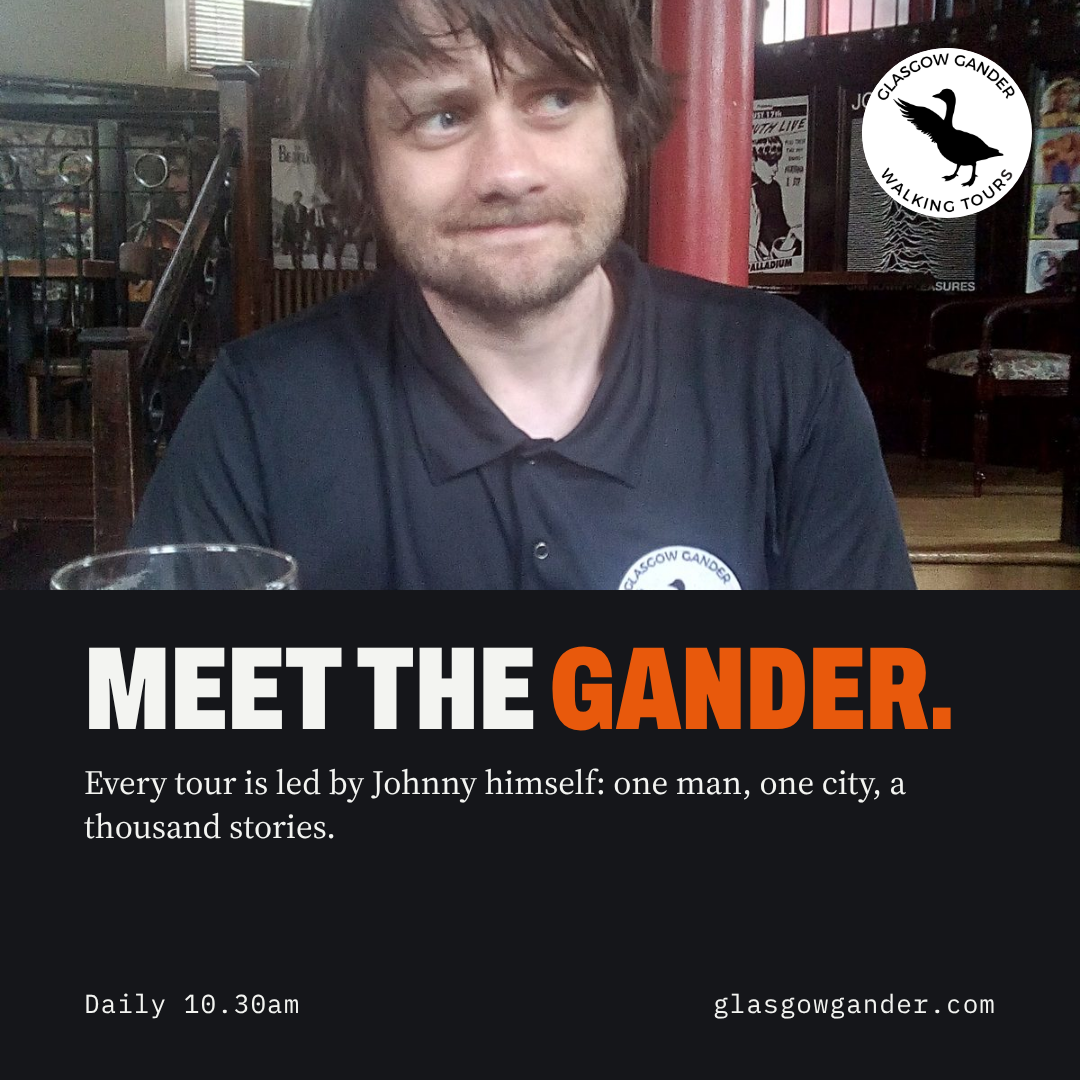
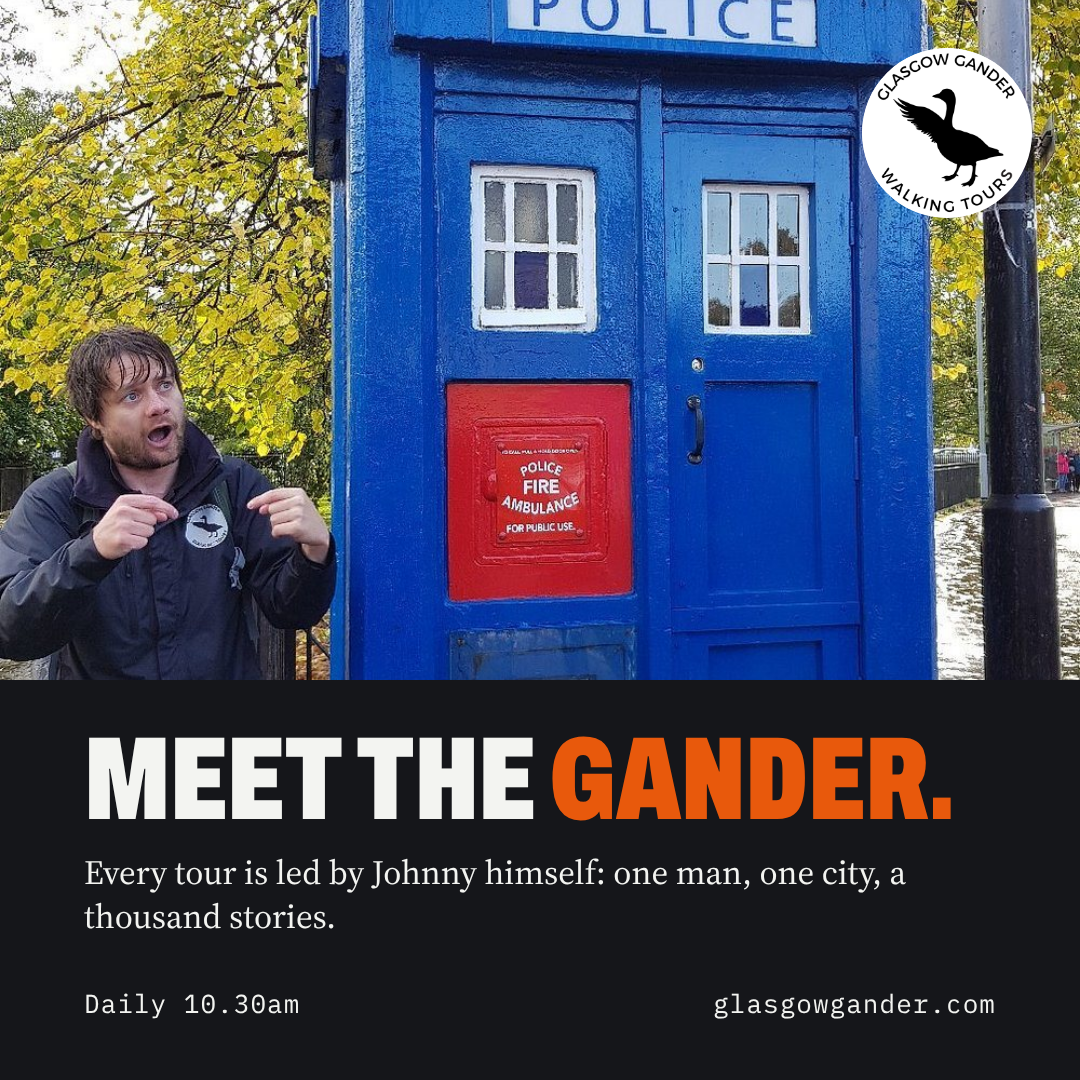
Use tour photos on homepage and Meet the Gander post
Police box photo of Johnny replaces the pub photo; George Square group
and indoor stage photos form a strip above the route. Photos re-saved
without metadata.

Claude-Session: https://claude.ai/code/session_01NVZjhXLwDRfLrGN4dTyPTs

diff --git a/index.html b/index.html
@@ -10,7 +10,7 @@
 <meta property="og:description" content="Three hours, 1.5 miles and the whole story of Glasgow. Daily at 10.30am from Royal Exchange Square. £15, kids go free.">
 <meta property="og:type" content="website">
 <meta property="og:url" content="https://www.glasgowgander.com/">
-<meta property="og:image" content="assets/city-chambers.jpg">
+<meta property="og:image" content="assets/tour-george-square.jpg">
 <link rel="icon" type="image/png" href="assets/logo-192.png">
 <link rel="preconnect" href="https://fonts.googleapis.com">
 <link rel="preconnect" href="https://fonts.gstatic.com" crossorigin>
@@ -175,6 +175,12 @@ section.block { padding-block: clamp(3rem, 7vw, 5.5rem); }
 .johnny-photo { margin: 0; display: grid; gap: 0.5rem; }
 .johnny-photo img { width: 100%; height: auto; max-width: 100%; aspect-ratio: 1 / 1; object-fit: cover; border-radius: 20px; display: block; }
 .johnny-photo figcaption { font-family: var(--font-mono); font-size: 0.8rem; color: var(--muted); }
+.photo-strip { padding-top: clamp(2rem, 5vw, 3.5rem); }
+.strip-grid { display: grid; grid-template-columns: minmax(0, 1.67fr) minmax(0, 1.33fr); gap: 1rem; }
+.strip-grid figure { margin: 0; display: grid; gap: 0.5rem; align-content: start; }
+.strip-grid img { display: block; width: 100%; max-width: 100%; height: auto; border-radius: 16px; }
+.strip-grid figcaption { font-family: var(--font-mono); font-size: 0.8rem; color: var(--muted); }
+@media (max-width: 700px) { .strip-grid { grid-template-columns: 1fr; } }
 .city-band { margin: 0; }
 .city-band img { display: block; width: 100%; height: auto; max-width: 100%; aspect-ratio: 21 / 8; object-fit: cover; object-position: center 40%; }
 .city-band figcaption { font-family: var(--font-mono); font-size: 0.8rem; color: var(--muted); padding-block: 0.6rem; }
@@ -307,10 +313,12 @@ footer nav { display: flex; gap: 1.25rem; flex-wrap: wrap; }
     </ul>
   </section>
 
-  <figure class="city-band">
-    <img src="assets/city-chambers.jpg" alt="Glasgow City Chambers on George Square" width="1800" height="1200" loading="lazy">
-    <figcaption class="wrap">Glasgow City Chambers, George Square: stop 3 on the tour</figcaption>
-  </figure>
+  <section class="photo-strip" aria-label="On tour">
+    <div class="wrap strip-grid">
+      <figure><img src="assets/tour-george-square.jpg" alt="Johnny leading a tour group at the cenotaph in George Square, in front of Glasgow City Chambers" width="1400" height="838" loading="lazy"><figcaption>George Square and the City Chambers, stop 3</figcaption></figure>
+      <figure><img src="assets/tour-indoor-stage.jpg" alt="Johnny telling stories on the stage of an old Glasgow music hall to a seated tour group" width="1400" height="1050" loading="lazy"><figcaption>Stories indoors at one of the stops</figcaption></figure>
+    </div>
+  </section>
 
   <section class="block" id="route">
     <div class="wrap">
@@ -360,8 +368,7 @@ footer nav { display: flex; gap: 1.25rem; flex-wrap: wrap; }
 
   <section class="block johnny" aria-labelledby="johnny-h">
     <div class="wrap">
-      <!-- TODO: swap for a photo of Johnny on tour, in the Gander jacket, if one exists -->
-      <figure class="johnny-photo"><img src="assets/johnny.jpg" alt="Johnny, the Glasgow Gander, wearing his Glasgow Gander polo shirt" width="1200" height="1200" loading="lazy"><figcaption>Johnny, the self-styled Glasgow Gander</figcaption></figure>
+      <figure class="johnny-photo"><img src="assets/johnny-police-box.jpg" alt="Johnny, the Glasgow Gander, in his Gander jacket beside a blue Glasgow police box" width="1000" height="1000" loading="lazy"><figcaption>Johnny on tour, by one of Glasgow's old police boxes</figcaption></figure>
       <div class="copy">
         <p class="eyebrow">Your guide</p>
         <h2 id="johnny-h">Meet the Gander</h2>

diff --git a/social/posts.html b/social/posts.html
@@ -69,8 +69,8 @@ body { margin: 0; background: #777; display: grid; gap: 40px; padding: 40px; jus
 .foot .mark { white-space: nowrap; }
 .foot .brand { display: flex; align-items: center; gap: 22px; }
 /* 7 meet johnny */
-.p7 { background: var(--ink); color: var(--paper); padding: 0; display: grid; grid-template-rows: 590px 1fr; }
-.p7 .photo { width: 100%; height: 590px; object-fit: cover; object-position: center 30%; display: block; }
+.p7 { background: var(--ink); color: var(--paper); padding: 0; display: grid; grid-template-rows: 680px 1fr; }
+.p7 .photo { width: 100%; height: 680px; object-fit: cover; object-position: center 35%; display: block; }
 .p7 .body { padding: 48px 84px 60px; display: flex; flex-direction: column; justify-content: space-between; }
 .p7 h1 { font-size: 118px; }
 .p7 .sub { font-family: var(--serif); font-size: 34px; line-height: 1.3; color: var(--paper); margin-top: 18px; }
@@ -157,7 +157,7 @@ body { margin: 0; background: #777; display: grid; gap: 40px; padding: 40px; jus
 
 <!-- 7. Meet Johnny -->
 <article class="post p7" id="post-7">
-  <img class="photo" src="../assets/johnny.jpg" alt="">
+  <img class="photo" src="../assets/johnny-police-box.jpg" alt="">
   <img class="logo badge" src="../assets/logo.png" alt="">
   <div class="body">
     <div>

diff --git a/README.md b/README.md
@@ -3,7 +3,7 @@
 Proposed new homepage and marketing material for Glasgow Gander Walking Tours.
 
 - `index.html`: a single-page homepage. Booking buttons link to the existing Wix booking page, so it can go live without changing the booking system. It fixes the SEO description, which currently says "FREE".
-- `assets/`: the logo, Johnny's photo and the City Chambers photo, web-sized, all taken from the current site. Full-size originals are in `assets/originals/`.
+- `assets/`: the logo and photos. Tour photos (police box, George Square group, indoor stage) were supplied for this project; the logo, pub photo and City Chambers photo came from the current site. Full-size originals are in `assets/originals/`.
 - `social/posts.html`: eight 1080×1080 Instagram/Facebook post designs. Edit the words in the file, then export them with `node social/render.js` (needs Playwright). The exported images are in `social/png/`.
 
 ## Before going live
@@ -11,7 +11,6 @@ Proposed new homepage and marketing material for Glasgow Gander Walking Tours.
 Search `index.html` for `TODO`:
 
 1. Replace "hundreds of" with the real current review count.
-2. Swap in a photo of Johnny on tour in the Gander jacket, if one exists. The current one, from the Wix site, is in a pub.
-3. Confirm prices for the private and group packages (currently "Ask for a quote").
+2. Confirm prices for the private and group packages (currently "Ask for a quote").
 
 The reviews section and social posts 3 and 8 quote TripAdvisor reviews from September to November 2026, word for word.
